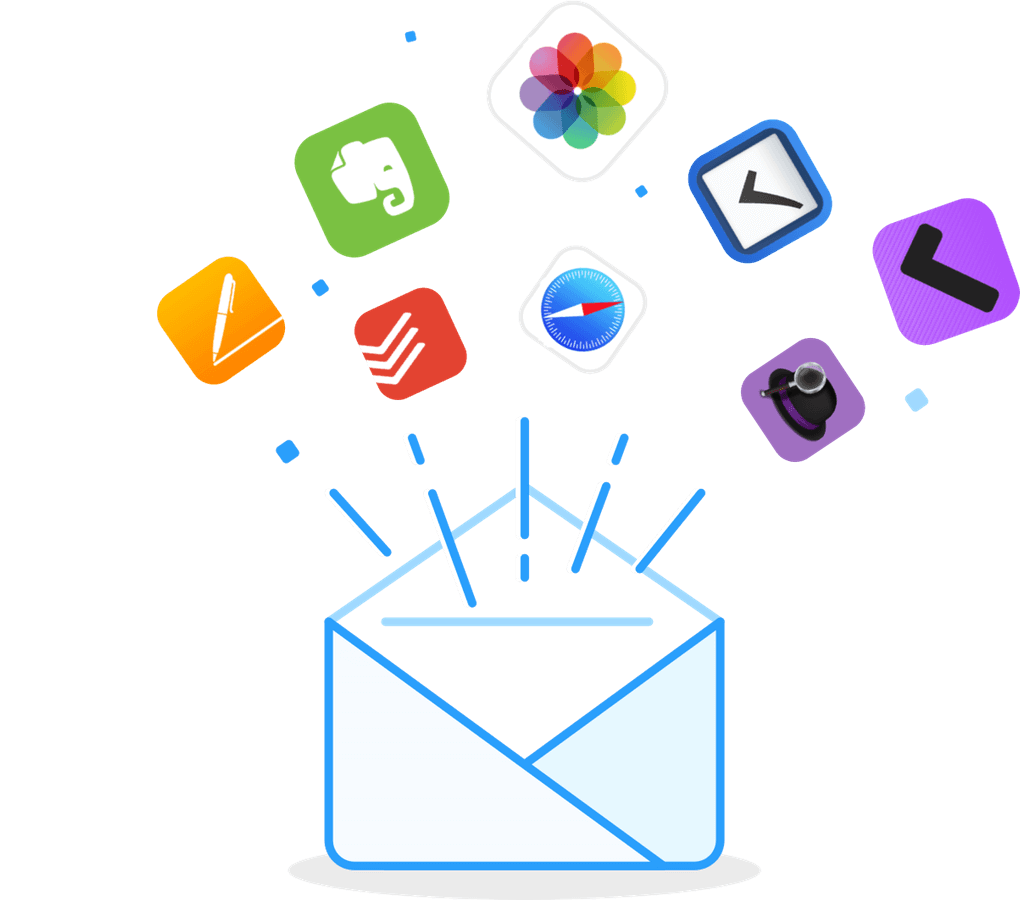
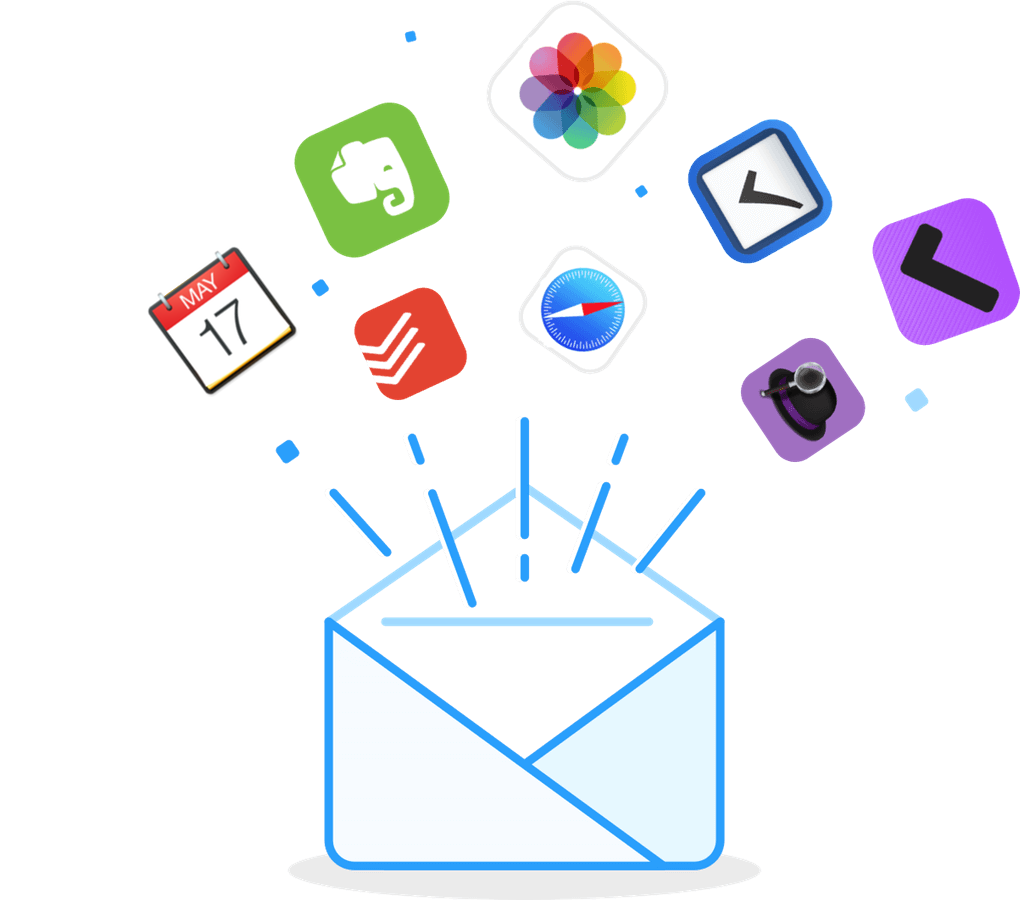
Added Fantastical to our list of integrations.

Changed region(s): [[0.152, 0.28, 0.3039, 0.4356]]

diff --git a/gmailformac.html b/gmailformac.html
@@ -134,7 +134,7 @@
 		<div class="wrapper">
 			<div class="lt cnt features">
 				<h1>Integration</h1>
-				<p>Compose new messages via our <a style="text-decoration:none" href="http://mailplaneapp.com/help/send_via_mailplane_3_share_extension.html" target="_blank">Share Extension</a> (e.g. Pages, Safari, etc.).</p>
+				<p>Compose new messages directly via our <a style="text-decoration:none" href="http://mailplaneapp.com/help/send_via_mailplane_3_share_extension.html" target="_blank">Share Extension</a> (e.g. Pages, Safari, <a style="text-decoration:none" href="https://flexibits.com/fantastical" target="_blank">Fantastical</a>, etc.).</p>
 				<p>Export message as to-do item to <a style="text-decoration:none" href="https://www.omnigroup.com/omnifocus" target="_blank">OmniFocus</a>, <a style="text-decoration:none" href="https://culturedcode.com/things/" target="_blank">Things</a> and <a style="text-decoration:none" href="https://en.todoist.com/mac" target="_blank">Todoist</a>.</p>
 				<p>Archive messages to <a style="text-decoration:none" href="https://evernote.com" target="_blank">Evernote</a>.</p>
 				<p>Export image attachments to <a style="text-decoration:none" href="http://www.apple.com/osx/photos/" target="_blank">Apple Photos</a>.</p>

diff --git a/index.html b/index.html
@@ -134,7 +134,7 @@
 		<div class="wrapper">
 			<div class="lt cnt features">
 				<h1>Integration</h1>
-				<p>Compose new messages via our <a style="text-decoration:none" href="http://mailplaneapp.com/help/send_via_mailplane_3_share_extension.html" target="_blank">Share Extension</a> (e.g. Pages, Safari, etc.).</p>
+				<p>Compose new messages directly via our <a style="text-decoration:none" href="http://mailplaneapp.com/help/send_via_mailplane_3_share_extension.html" target="_blank">Share Extension</a> (e.g. Pages, Safari, <a style="text-decoration:none" href="https://flexibits.com/fantastical" target="_blank">Fantastical</a>, etc.).</p>
 				<p>Export message as to-do item to <a style="text-decoration:none" href="https://www.omnigroup.com/omnifocus" target="_blank">OmniFocus</a>, <a style="text-decoration:none" href="https://culturedcode.com/things/" target="_blank">Things</a> and <a style="text-decoration:none" href="https://en.todoist.com/mac" target="_blank">Todoist</a>.</p>
 				<p>Archive messages to <a style="text-decoration:none" href="https://evernote.com" target="_blank">Evernote</a>.</p>
 				<p>Export image attachments to <a style="text-decoration:none" href="http://www.apple.com/osx/photos/" target="_blank">Apple Photos</a>.</p>

diff --git a/subscribed.html b/subscribed.html
@@ -134,7 +134,7 @@
 		<div class="wrapper">
 			<div class="lt cnt features">
 				<h1>Integration</h1>
-				<p>Compose new messages via our <a style="text-decoration:none" href="http://mailplaneapp.com/help/send_via_mailplane_3_share_extension.html" target="_blank">Share Extension</a> (e.g. Pages, Safari, etc.).</p>
+				<p>Compose new messages directly via our <a style="text-decoration:none" href="http://mailplaneapp.com/help/send_via_mailplane_3_share_extension.html" target="_blank">Share Extension</a> (e.g. Pages, Safari, <a style="text-decoration:none" href="https://flexibits.com/fantastical" target="_blank">Fantastical</a>, etc.).</p>
 				<p>Export message as to-do item to <a style="text-decoration:none" href="https://www.omnigroup.com/omnifocus" target="_blank">OmniFocus</a>, <a style="text-decoration:none" href="https://culturedcode.com/things/" target="_blank">Things</a> and <a style="text-decoration:none" href="https://en.todoist.com/mac" target="_blank">Todoist</a>.</p>
 				<p>Archive messages to <a style="text-decoration:none" href="https://evernote.com" target="_blank">Evernote</a>.</p>
 				<p>Export image attachments to <a style="text-decoration:none" href="http://www.apple.com/osx/photos/" target="_blank">Apple Photos</a>.</p>

diff --git a/tour.html b/tour.html
@@ -134,7 +134,7 @@
 		<div class="wrapper">
 			<div class="lt cnt features">
 				<h1>Integration</h1>
-				<p>Compose new messages via our <a style="text-decoration:none" href="http://mailplaneapp.com/help/send_via_mailplane_3_share_extension.html" target="_blank">Share Extension</a> (e.g. Pages, Safari, etc.).</p>
+				<p>Compose new messages directly via our <a style="text-decoration:none" href="http://mailplaneapp.com/help/send_via_mailplane_3_share_extension.html" target="_blank">Share Extension</a> (e.g. Pages, Safari, <a style="text-decoration:none" href="https://flexibits.com/fantastical" target="_blank">Fantastical</a>, etc.).</p>
 				<p>Export message as to-do item to <a style="text-decoration:none" href="https://www.omnigroup.com/omnifocus" target="_blank">OmniFocus</a>, <a style="text-decoration:none" href="https://culturedcode.com/things/" target="_blank">Things</a> and <a style="text-decoration:none" href="https://en.todoist.com/mac" target="_blank">Todoist</a>.</p>
 				<p>Archive messages to <a style="text-decoration:none" href="https://evernote.com" target="_blank">Evernote</a>.</p>
 				<p>Export image attachments to <a style="text-decoration:none" href="http://www.apple.com/osx/photos/" target="_blank">Apple Photos</a>.</p>

diff --git a/upgrade.html b/upgrade.html
@@ -134,7 +134,7 @@
 		<div class="wrapper">
 			<div class="lt cnt features">
 				<h1>Integration</h1>
-				<p>Compose new messages via our <a style="text-decoration:none" href="http://mailplaneapp.com/help/send_via_mailplane_3_share_extension.html" target="_blank">Share Extension</a> (e.g. Pages, Safari, etc.).</p>
+				<p>Compose new messages directly via our <a style="text-decoration:none" href="http://mailplaneapp.com/help/send_via_mailplane_3_share_extension.html" target="_blank">Share Extension</a> (e.g. Pages, Safari, <a style="text-decoration:none" href="https://flexibits.com/fantastical" target="_blank">Fantastical</a>, etc.).</p>
 				<p>Export message as to-do item to <a style="text-decoration:none" href="https://www.omnigroup.com/omnifocus" target="_blank">OmniFocus</a>, <a style="text-decoration:none" href="https://culturedcode.com/things/" target="_blank">Things</a> and <a style="text-decoration:none" href="https://en.todoist.com/mac" target="_blank">Todoist</a>.</p>
 				<p>Archive messages to <a style="text-decoration:none" href="https://evernote.com" target="_blank">Evernote</a>.</p>
 				<p>Export image attachments to <a style="text-decoration:none" href="http://www.apple.com/osx/photos/" target="_blank">Apple Photos</a>.</p>

diff --git a/help/integration.html b/help/integration.html
@@ -28,6 +28,11 @@ description: Learn how Mailplane integrates Gmail on your Mac.
 			</p>
 
 			<p style="padding-bottom:20px">
+				<a href="https://flexibits.com/fantastical">Fantastical 2</a><br/>
+				Fantastical sends events through Mailplane.
+			</p>
+
+			<p style="padding-bottom:20px">
 				<a href="http://www.busymac.com/busycal">BusyCal</a><br/>
 				BusyCal can send meeting invitations through Mailplane.
 			</p>
